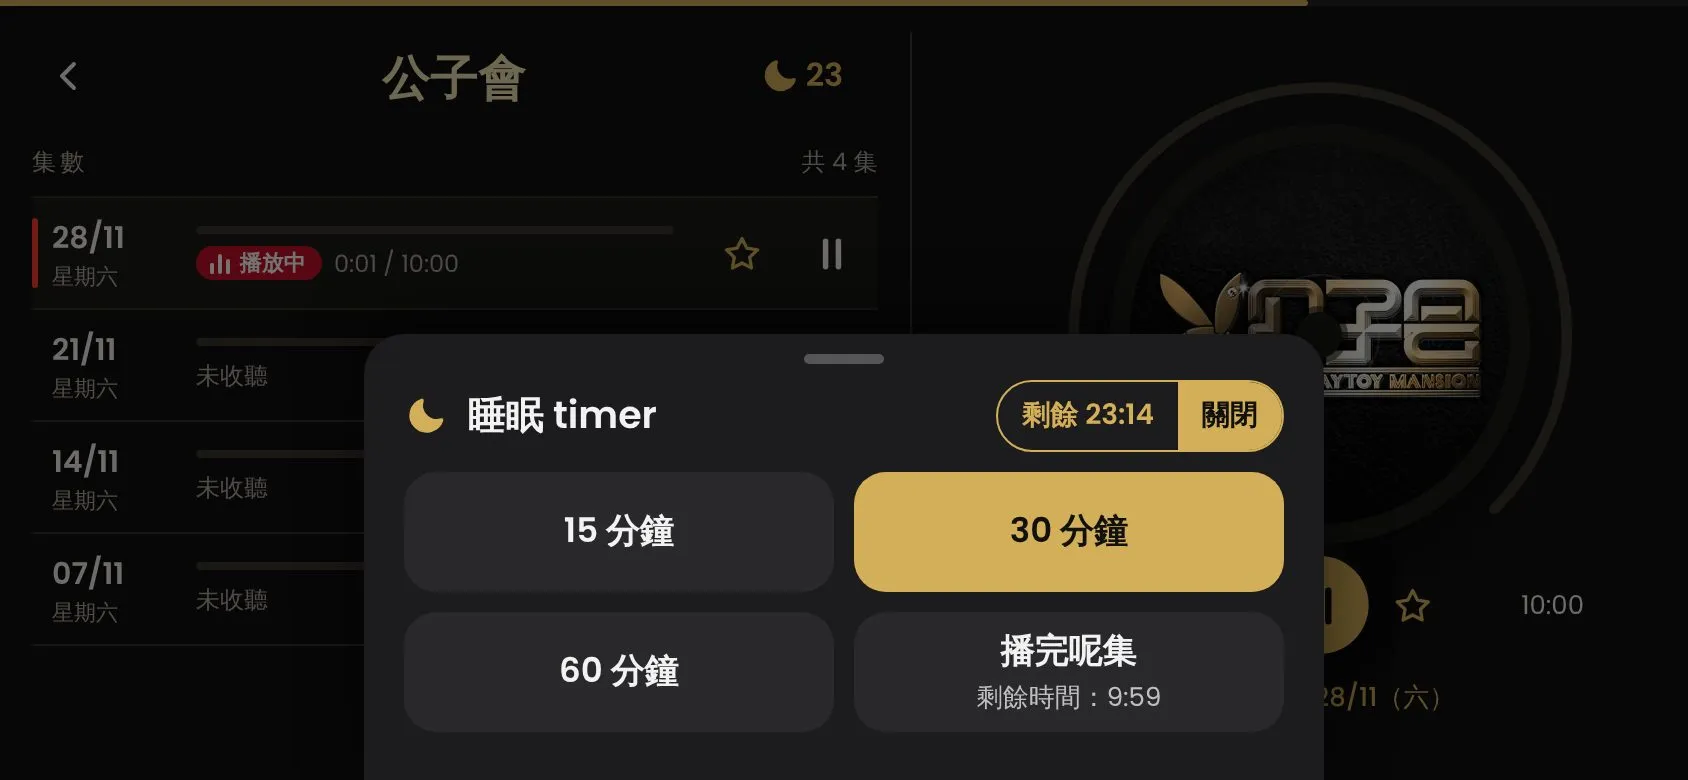
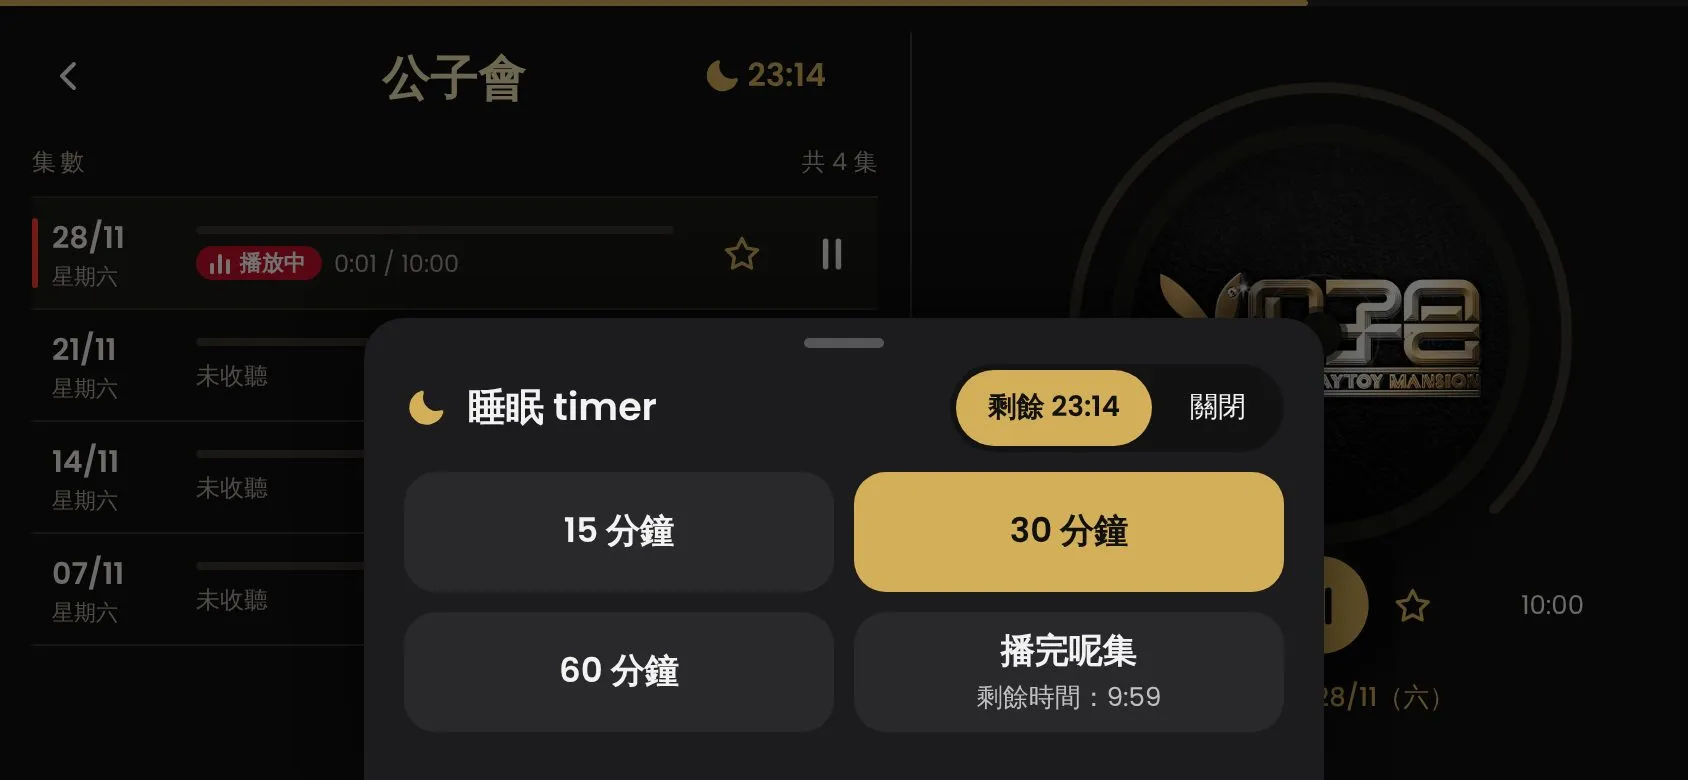
docs(mockup): sleep timer preview v4; record tab button style rule
Claude-Session: https://claude.ai/code/session_01NegVSzAWWvX3PHG28NyZnq

diff --git a/_mockups_/sleep-timer/index.html b/_mockups_/sleep-timer/index.html
@@ -129,7 +129,7 @@
     <body>
         <main>
             <header>
-                <h1>9d 睡眠 timer preview（v3）</h1>
+                <h1>9d 睡眠 timer preview（v4）</h1>
                 <p>
                     真 app 截圖（v2.0.0）加上新掣。每行可以左右掃睇其他裝置。月亮掣只喺裝置本地時間
                     21:00–05:00 出現，timer 開緊時一直出。示範狀態：揀咗 30 分鐘，剩 23:14。
@@ -162,7 +162,8 @@
                 <p>
                     內頁頁頭右上（HomeView
                     喺清單掣左邊）；闊版主頁播放卡喺卡頭下面嗰行（指示點同一行）右邊。未開 =
-                    線條月亮；開咗 = 實色月亮 + 剩餘分鐘（冇底色），頁頂全闊進度條隨時間扣減。
+                    線條月亮；開咗 = 實色月亮 +
+                    剩餘分秒（例：23:14，冇底色），頁頂全闊進度條隨時間扣減；進度條同月亮都用當頁主題強調色（同播放掣同色：節目頁跟節目主題，主頁跟奶油金）。
                 </p>
                 <div class="row">
                     <figure>
@@ -255,8 +256,8 @@
                 <p>
                     Mini player 底部已經係播放進度條，所以 timer
                     進度要第二個位。M1：同內頁一樣用頁頂全闊條；M2：mini player
-                    頂邊一條細條；M3：月亮外圈圓環。實作時標題 / 日期會縮窄讓位（preview
-                    係疊上去）。
+                    頂邊一條細條；M3：月亮外圈圓環；M4：外圈包埋月亮同數字（膠囊形進度框）。實作時標題
+                    / 日期會縮窄讓位（preview 係疊上去）。
                 </p>
                 <div class="row">
                     <figure>
@@ -283,6 +284,10 @@
                         <img src="phone-mini-m3.webp" alt="M3 月亮外圈" loading="lazy" />
                         <figcaption>M3・月亮外圈</figcaption>
                     </figure>
+                    <figure>
+                        <img src="phone-mini-m4.webp" alt="M4 外圈包埋數字" loading="lazy" />
+                        <figcaption>M4・外圈包埋數字</figcaption>
+                    </figure>
                 </div>
             </section>
             <section>
@@ -305,12 +310,13 @@
                         </tr>
                         <tr>
                             <td>開緊顯示</td>
-                            <td>實色月亮 + 剩餘分鐘；頁頂全闊進度條</td>
+                            <td>實色月亮 + 剩餘分秒；頁頂全闊進度條（當頁主題強調色）</td>
                         </tr>
                         <tr>
                             <td>選單</td>
                             <td>
-                                2×2 大掣；上次時長 highlight；開緊時標題右邊「剩餘｜關閉」；冇說明字
+                                2×2 大掣；上次時長
+                                highlight；開緊時標題右邊「剩餘｜關閉」tab（節目｜廣播劇款）；冇說明字
                             </td>
                         </tr>
                         <tr>

diff --git a/.claude/CLAUDE.md b/.claude/CLAUDE.md
@@ -63,3 +63,8 @@
 - 同用戶嘅所有回覆一律用繁體中文（廣東話書面語）；code、指令、技術名詞先用英文
 - 收到英文嘅 subagent 報告、GitHub 通知、CI log 之後都照用中文回覆，唔好跟住轉英文
 - PR description、commit message 照舊用英文；repo 入面其他文件跟現有慣例
+
+## Tab 掣款式（用戶 2026-11-19 決定）
+
+- 任何 tab / 分段掣（例如睡眠 timer 選單「剩餘 23:14｜關閉」）一律用主頁「節目｜廣播劇」款（`apps/player/src/components/pages/home/HomeTabs/HomeTabs.module.css`）：膠囊軌道（`--home-tab-track` 底、`--home-tab-inset` 內距、`--radius-full`），揀中嗰格由強調色膠囊墊底（`--color-accent`，字 `--color-on-accent` 700），其他格透明底（字 `--color-text` 500）
+- ❌ 唔好另起框線 / 分隔線 / 半邊實色嘅款；新 mockup 同 code 都要跟
